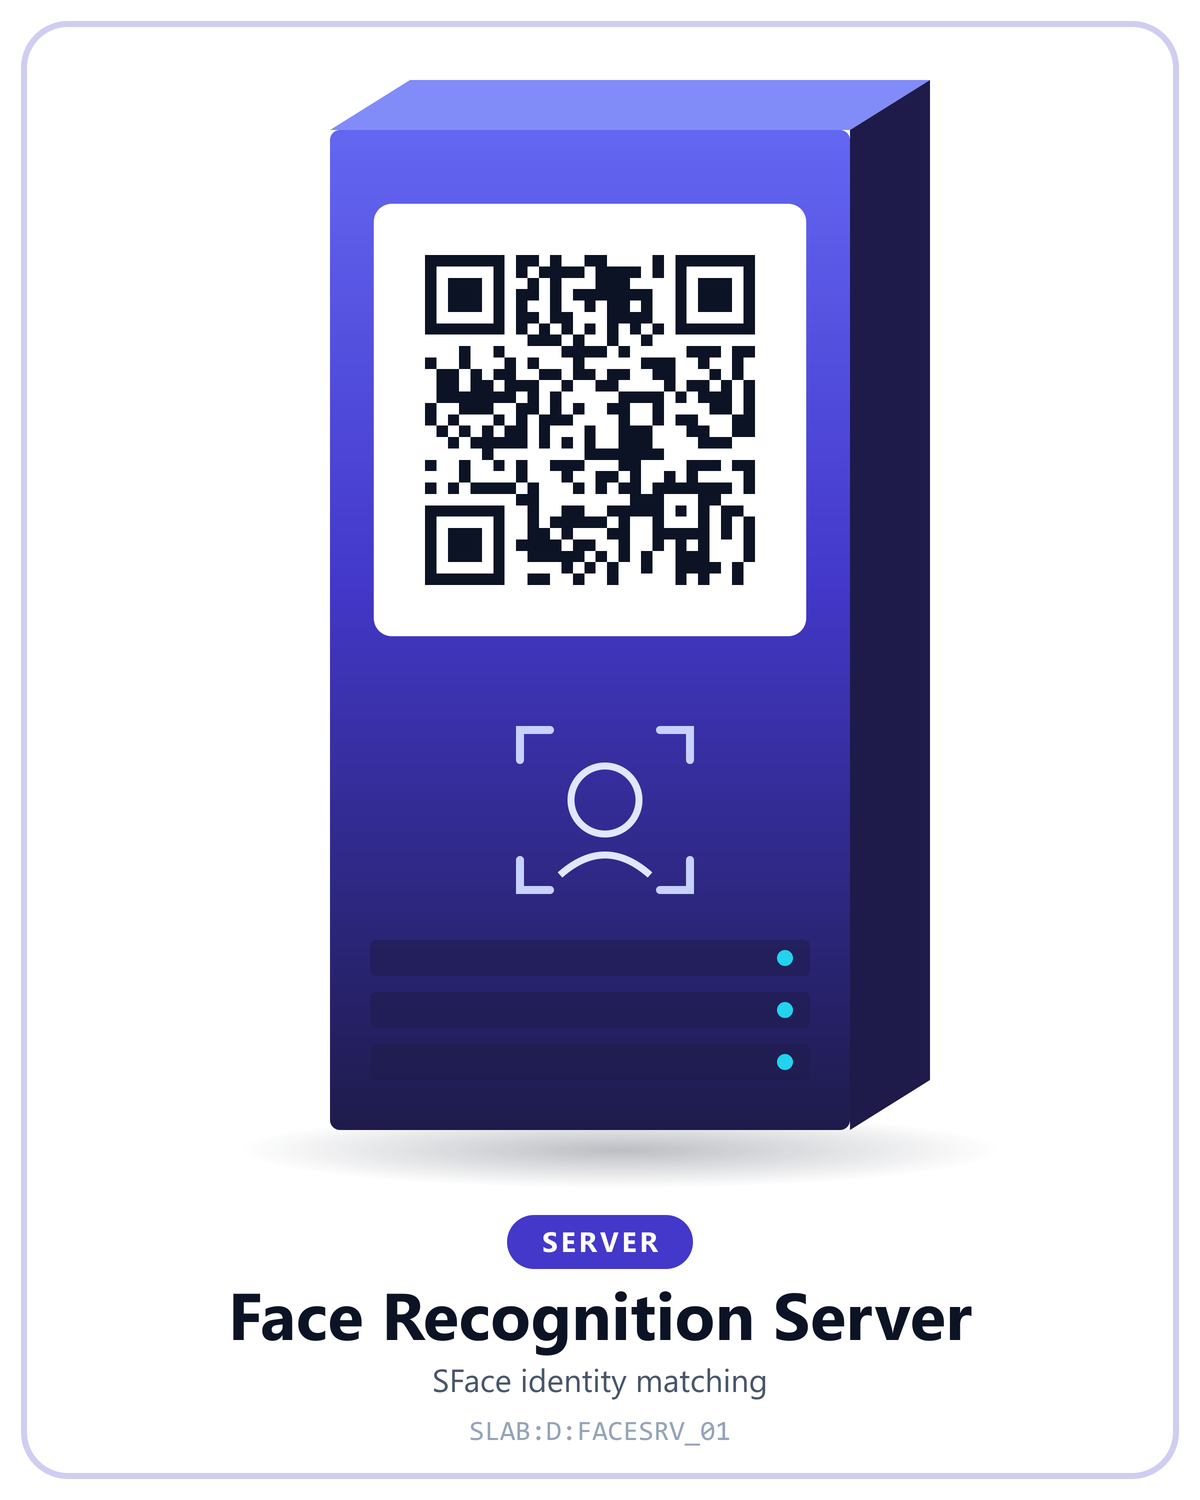
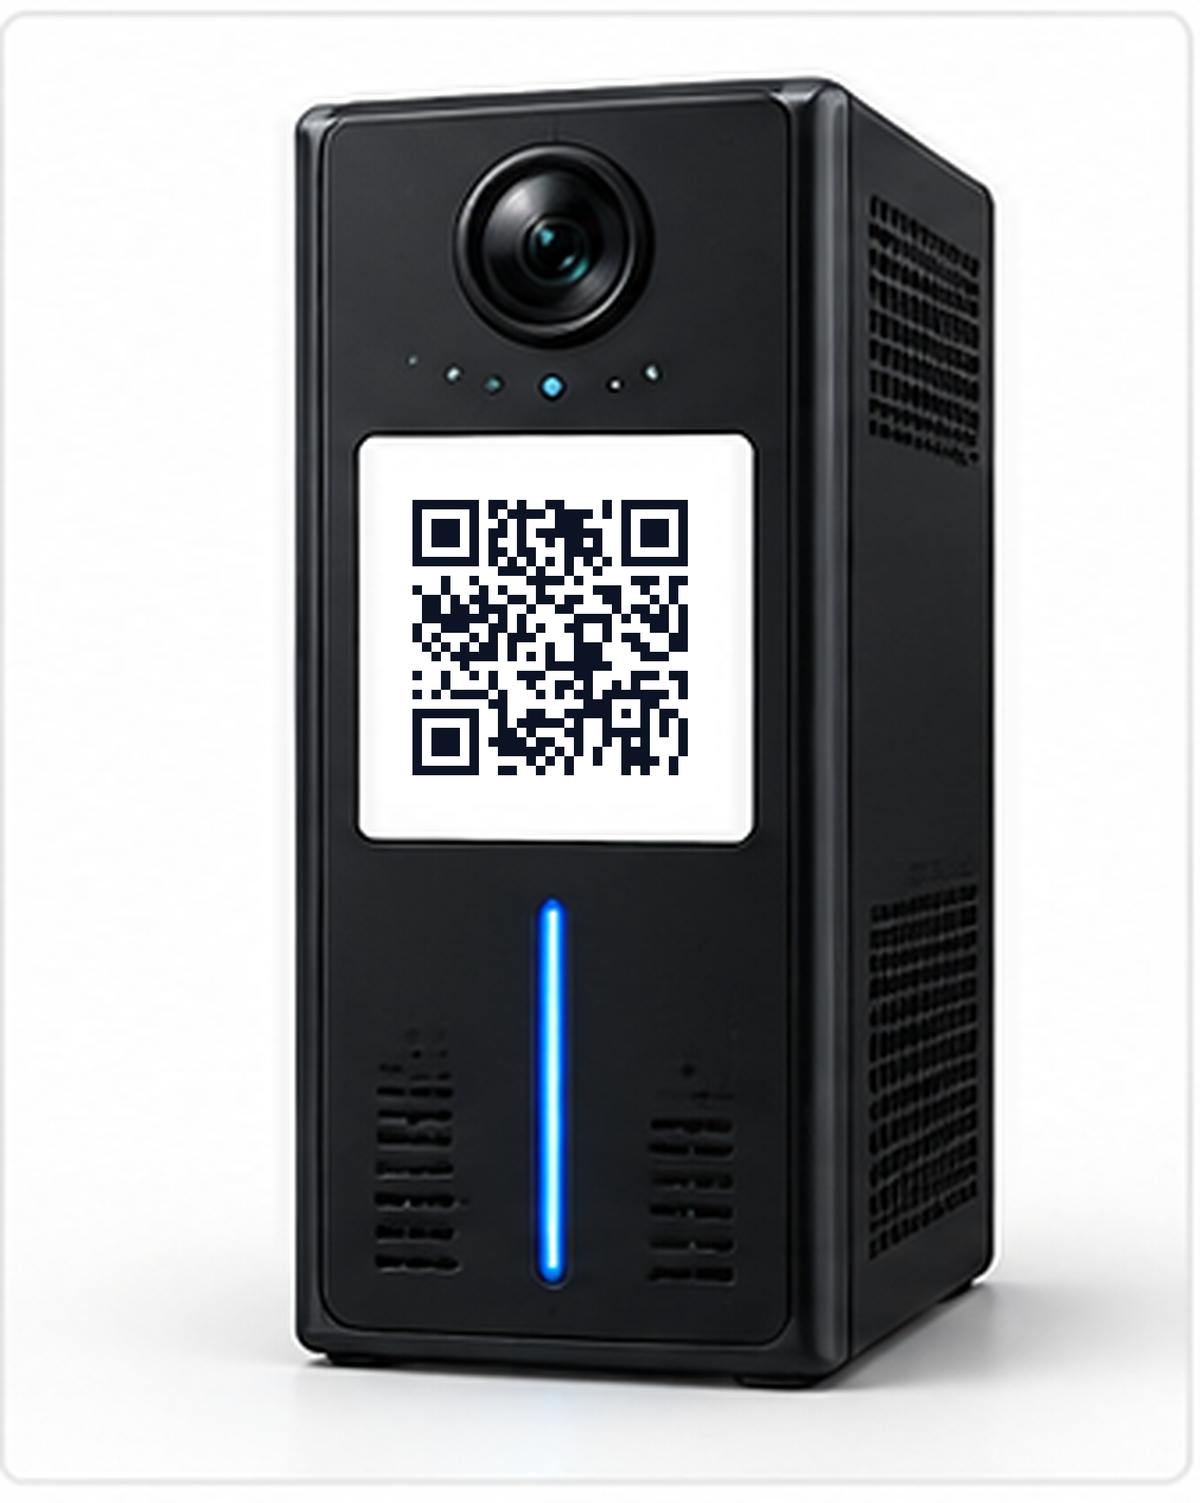
Markers: the owner's 10 object pictures with the real QR in each white panel (door: sticker below the handle), upscaled 6x with the QR drawn sharp at full size; jsQR 80/80, OpenCV 48/50 (misses only at 337 px), page webps 30/30

diff --git a/frontend/src/pages/ScanSetup.tsx b/frontend/src/pages/ScanSetup.tsx
@@ -15,8 +15,9 @@ interface MarkerCard { code: string; key: string; kind: string; name: string; ty
   category: string; color: string; label: string; source: string; img: string }
 
 // Illustrated markers (2026-10-27, owner: "a partially opened door with the QR on the door, a 3D 6-DOF robot, a camera whose
-// lens is the QR"): drawn by e2e/qr_art.mjs around the REAL flat QR (portal encoder, ECC H) and decode-checked (jsQR 80/80,
-// OpenCV 50/50). Only these registered assets have a drawing; every other marker keeps the pack artwork (fallback).
+// lens is the QR"): the owner's own object pictures with the REAL flat QR (portal encoder, ECC H) drawn into each white
+// panel by e2e/qr_place_on_images.py (door: a sticker below the handle), decode-checked (jsQR 80/80, OpenCV 48/50 - the
+// 2 misses only at 337 px thumbnail size). Only these registered assets have a picture; others keep the pack artwork.
 const ART: Record<string, string> = {
   'SLAB:D:CAM_LAB01': 'entry-camera', 'SLAB:D:FACESRV_01': 'face-server', 'SLAB:D:MASTER_LAB01': 'door-master',
   'SLAB:D:PC_ADMIN_LAPTOP': 'admin-laptop', 'SLAB:D:UR5E_01': 'ur5e-robot', 'SLAB:D:FANUC_01': 'fanuc-robot',

diff --git a/frontend/e2e/qr_place_on_images.py b/frontend/e2e/qr_place_on_images.py
@@ -1,0 +1,42 @@
+import cv2, numpy as np, json, os, sys
+from PIL import Image, ImageDraw, ImageFilter
+D = sys.argv[1]; SC = 6
+M = json.load(open(D + '/../qrart/matrices.json'))
+MAP = {'01_admin_laptop': ('admin-laptop', 'SLAB:D:PC_ADMIN_LAPTOP'), '02_consumables_bin': ('consumables-bin', 'SLAB:D:BIN_NODE_1'),
+       '03_master_door_controller': ('door-master', 'SLAB:D:MASTER_LAB01'), '04_entry_camera': ('entry-camera', 'SLAB:D:CAM_LAB01'),
+       '05_face_recognition_server': ('face-server', 'SLAB:D:FACESRV_01'), '06_fanuc_robot_arm': ('fanuc-robot', 'SLAB:D:FANUC_01'),
+       '07_reusable_items_bin': ('reusable-bin', 'SLAB:D:REUSE_BIN_1'), '08_security_camera': ('security-camera', 'SLAB:D:SECCAM_LAB01'),
+       '09_lab_pc_01': ('student-pc', 'SLAB:D:PC_01'), '10_ur5e_robot_arm': ('ur5e-robot', 'SLAB:D:UR5E_01')}
+os.makedirs(D + '/png', exist_ok=True)
+man = []
+for stem, (slug, code) in MAP.items():
+    a = cv2.imread(f'{D}/src/{stem}.png'); h, w = a.shape[:2]
+    if stem.startswith('03_'):
+        box = (72, 298, 96, 96)                       # sticker on the door leaf, below the handle (owner image has no panel there)
+    else:
+        g = cv2.cvtColor(a, cv2.COLOR_BGR2GRAY)
+        m = ((g >= 248) & (a.max(2).astype(int) - a.min(2) <= 6)).astype(np.uint8)
+        m = cv2.morphologyEx(m, cv2.MORPH_OPEN, np.ones((5, 5), np.uint8))
+        n, lab, st, _ = cv2.connectedComponentsWithStats(m, 8)
+        c = [st[i] for i in range(1, n) if st[i][0] > 2 and st[i][1] > 2 and st[i][0] + st[i][2] < w - 3 and st[i][1] + st[i][3] < h - 3]
+        x, y, bw, bh, _ = max(c, key=lambda s: s[4]); box = (int(x), int(y), int(bw), int(bh))
+    img = Image.open(f'{D}/src/{stem}.png').convert('RGB')
+    img = img.resize((w * SC, h * SC), Image.LANCZOS).filter(ImageFilter.UnsharpMask(radius=2, percent=60, threshold=2))
+    d = ImageDraw.Draw(img)
+    x, y, bw, bh = [v * SC for v in box]
+    if stem.startswith('03_'):                         # the sticker itself: soft shadow, white, thin grey edge
+        sh = Image.new('L', img.size, 0); ImageDraw.Draw(sh).rounded_rectangle((x + 8, y + 14, x + bw + 8, y + bh + 14), 40, fill=120)
+        img.paste((10, 40, 40), mask=sh.filter(ImageFilter.GaussianBlur(14)))
+        d.rounded_rectangle((x, y, x + bw, y + bh), 40, fill='white', outline=(190, 200, 205), width=6)
+    mat = M[code]; n = len(mat)
+    inner = min(bw, bh) * 0.92
+    k = int(inner // (n + 6))                          # 3-module quiet zone inside the white panel (the panel adds more)
+    size = k * n; ox = int(x + (bw - size) / 2); oy = int(y + (bh - size) / 2)
+    d.rectangle((ox - 3 * k, oy - 3 * k, ox + size + 3 * k - 1, oy + size + 3 * k - 1), fill='white')
+    for r, row in enumerate(mat):
+        for cc, v in enumerate(row):
+            if v == '1': d.rectangle((ox + cc * k, oy + r * k, ox + cc * k + k - 1, oy + r * k + k - 1), fill=(11, 19, 36))
+    img.save(f'{D}/png/{slug}.png', dpi=(300, 300), optimize=True)
+    man.append({'file': f'{slug}.png', 'payload': code, 'source_image': f'{stem}.png', 'module_px': k, 'size': list(img.size)})
+    print(slug, code, 'module', k, 'px', img.size)
+json.dump(man, open(D + '/manifest.json', 'w'), indent=1)
